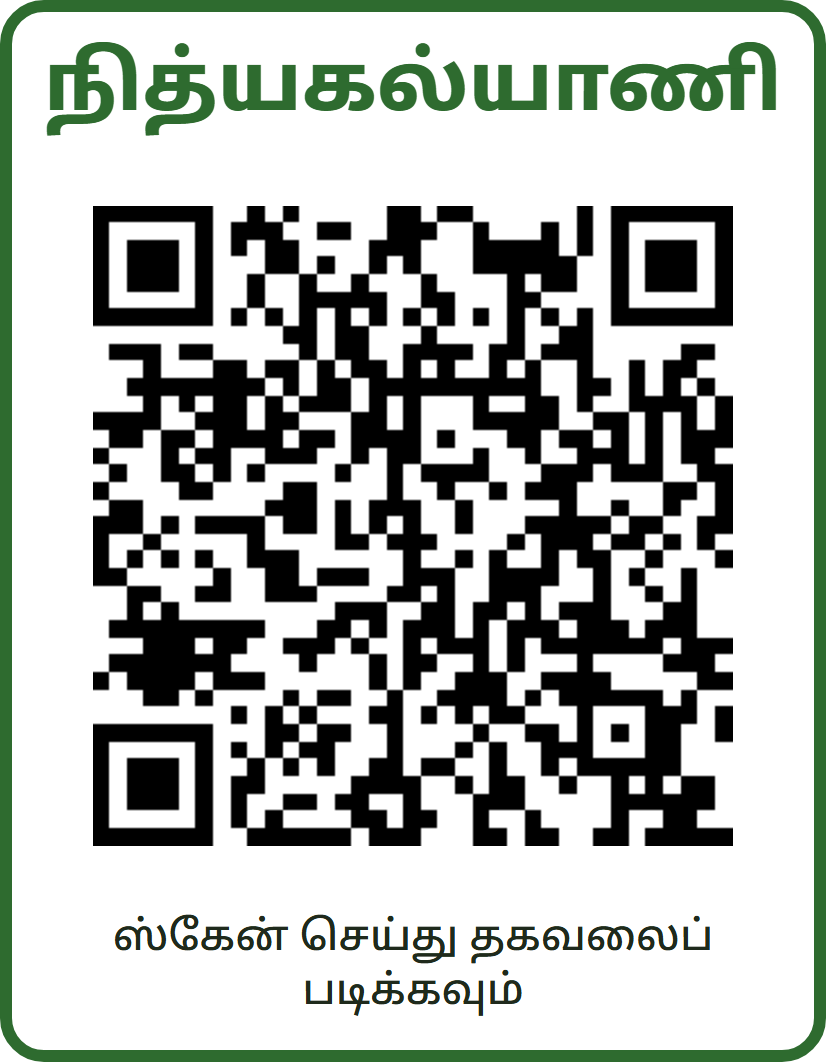
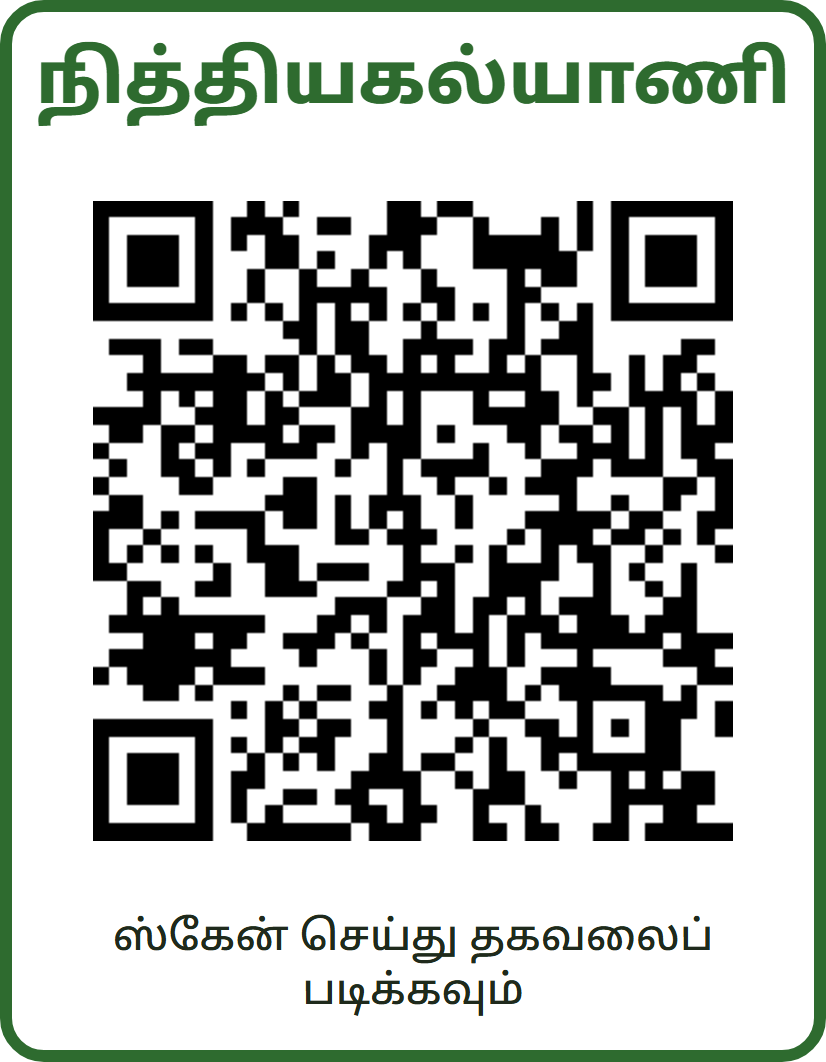
Rename நித்யகல்யாணி -> நித்தியகல்யாணி (page, list, sticker label); link unchanged

diff --git a/plants/nithiyakalyani/index.html b/plants/nithiyakalyani/index.html
@@ -3,7 +3,7 @@
 <head>
 <meta charset="utf-8">
 <meta name="viewport" content="width=device-width, initial-scale=1">
-<title>நித்யகல்யாணி – சித்த மூலிகைக் கண்காட்சி</title>
+<title>நித்தியகல்யாணி – சித்த மூலிகைக் கண்காட்சி</title>
 <link rel="preconnect" href="https://fonts.googleapis.com">
 <link rel="stylesheet" href="https://fonts.googleapis.com/css2?family=Noto+Sans+Tamil:wght@400;600;700&display=swap">
 <link rel="stylesheet" href="../../style.css?v=b3cdad81">
@@ -12,14 +12,14 @@
 </head>
 <body>
 <header class="hero">
-  <h1>நித்யகல்யாணி</h1>
+  <h1>நித்தியகல்யாணி</h1>
   <p class="sub">Madagascar Periwinkle · <i>Catharanthus roseus</i></p>
 </header>
 <main>
-<figure class="photo"><img src="../../images/nithiyakalyani.jpg" alt="நித்யகல்யாணி" width="100%" loading="eager"><figcaption>படம்: O Tupinólogo · CC BY 4.0 · <a href="https://commons.wikimedia.org/wiki/File:Vinca_(Catharanthus_roseus)_cultivada_em_Bag%C3%A9,_RS,_Brasil_-_55231652268.jpg" target="_blank" rel="noopener">Wikimedia Commons</a></figcaption></figure>
+<figure class="photo"><img src="../../images/nithiyakalyani.jpg" alt="நித்தியகல்யாணி" width="100%" loading="eager"><figcaption>படம்: O Tupinólogo · CC BY 4.0 · <a href="https://commons.wikimedia.org/wiki/File:Vinca_(Catharanthus_roseus)_cultivada_em_Bag%C3%A9,_RS,_Brasil_-_55231652268.jpg" target="_blank" rel="noopener">Wikimedia Commons</a></figcaption></figure>
 <section class="note"><h2>🌿 மருத்துவச் சிறப்பு:</h2><p>இச்செடியிலிருந்து ஆய்வகங்களில் பிரித்தெடுக்கப்படும் வேதிப்பொருட்கள், உலகெங்கும் இரத்தப் புற்றுநோய் உள்ளிட்ட புற்றுநோய்களுக்கான மருந்துகளாகப் பயன்படுகின்றன. சித்த மருத்துவத்தில் நீரிழிவுக்கும் பாரம்பரியமாகப் பயன்பட்டு வந்துள்ளது.</p><p class="note-key"><b>🎯 முக்கியப் பயன்:</b> இதிலிருந்து ஆய்வகங்களில் புற்றுநோய் மருந்துகள் தயாரிக்கப்படுகின்றன; நீரிழிவுக்கும் பாரம்பரியமாகப் பயன்பட்டு வந்துள்ளது.</p><p class="note-warn">⚠ அனைத்துப் பாகங்களும் நச்சுத்தன்மை உடையவை – வீட்டில் உட்கொள்ளக் கூடாது.</p></section>
 <h2 class="facts-heading">உங்களுக்குத் தெரியுமா?</h2>
-<section class="fact"><h3><span class="num">1</span>ஆண்டு முழுவதும் பூக்கும் பூ</h3><p>வருடத்தின் எல்லா நாட்களிலும் இடைவிடாமல் பூப்பதால் &quot;நித்ய&quot; (என்றும்) &quot;கல்யாணி&quot; என்று பெயர் பெற்றது.</p></section>
+<section class="fact"><h3><span class="num">1</span>ஆண்டு முழுவதும் பூக்கும் பூ</h3><p>வருடத்தின் எல்லா நாட்களிலும் இடைவிடாமல் பூப்பதால் &quot;நித்திய&quot; (என்றும்) &quot;கல்யாணி&quot; என்று பெயர் பெற்றது.</p></section>
 <section class="fact"><h3><span class="num">2</span>புற்றுநோய் மருந்தின் தாய்</h3><p>உலகப் புகழ்பெற்ற &quot;வின்கிரிஸ்டின்&quot;, &quot;வின்பிளாஸ்டின்&quot; என்ற புற்றுநோய் மருந்துகள் இந்தச் சிறு செடியிலிருந்தே கண்டுபிடிக்கப்பட்டன.</p></section>
 <section class="fact"><h3><span class="num">3</span>கால்நடைகள் தொடாத செடி</h3><p>இதில் சக்தி வாய்ந்த வேதிப்பொருட்கள் இருப்பதால் ஆடு, மாடுகள் இதை மேய்வதில்லை. வறண்ட, சத்தில்லா மண்ணிலும் செழித்து வளரும்.</p></section>
 

diff --git a/plants/index.html b/plants/index.html
@@ -30,7 +30,7 @@
 <li><a href="kuppaimeni/"><span class="names"><strong>குப்பைமேனி</strong><span>Indian Acalypha</span></span><span class="chev" aria-hidden="true">›</span></a></li>
 <li><a href="katralai/"><span class="names"><strong>கற்றாழை</strong><span>Aloe Vera</span></span><span class="chev" aria-hidden="true">›</span></a></li>
 <li><a href="seemaiagathi/"><span class="names"><strong>சீமை அகத்தி</strong><span>Candle Bush</span></span><span class="chev" aria-hidden="true">›</span></a></li>
-<li><a href="nithiyakalyani/"><span class="names"><strong>நித்யகல்யாணி</strong><span>Madagascar Periwinkle</span></span><span class="chev" aria-hidden="true">›</span></a></li>
+<li><a href="nithiyakalyani/"><span class="names"><strong>நித்தியகல்யாணி</strong><span>Madagascar Periwinkle</span></span><span class="chev" aria-hidden="true">›</span></a></li>
 <li><a href="pappali/"><span class="names"><strong>பப்பாளி</strong><span>Papaya</span></span><span class="chev" aria-hidden="true">›</span></a></li>
 <li><a href="vetrilai/"><span class="names"><strong>வெற்றிலை</strong><span>Betel Leaf</span></span><span class="chev" aria-hidden="true">›</span></a></li>
 <li><a href="iranakalli/"><span class="names"><strong>இரணக்கள்ளி</strong><span>Miracle Leaf</span></span><span class="chev" aria-hidden="true">›</span></a></li>

diff --git a/README.md b/README.md
@@ -19,7 +19,7 @@ Visitors scan the QR sticker on a plant's board and their phone opens that plant
 | 7 | குப்பைமேனி | kuppaimeni |
 | 8 | கற்றாழை | katralai |
 | 9 | சீமை அகத்தி | seemaiagathi |
-| 10 | நித்யகல்யாணி | nithiyakalyani |
+| 10 | நித்தியகல்யாணி | nithiyakalyani |
 | 11 | பப்பாளி | pappali |
 | 12 | வெற்றிலை | vetrilai |
 | 13 | இரணக்கள்ளி | iranakalli |
